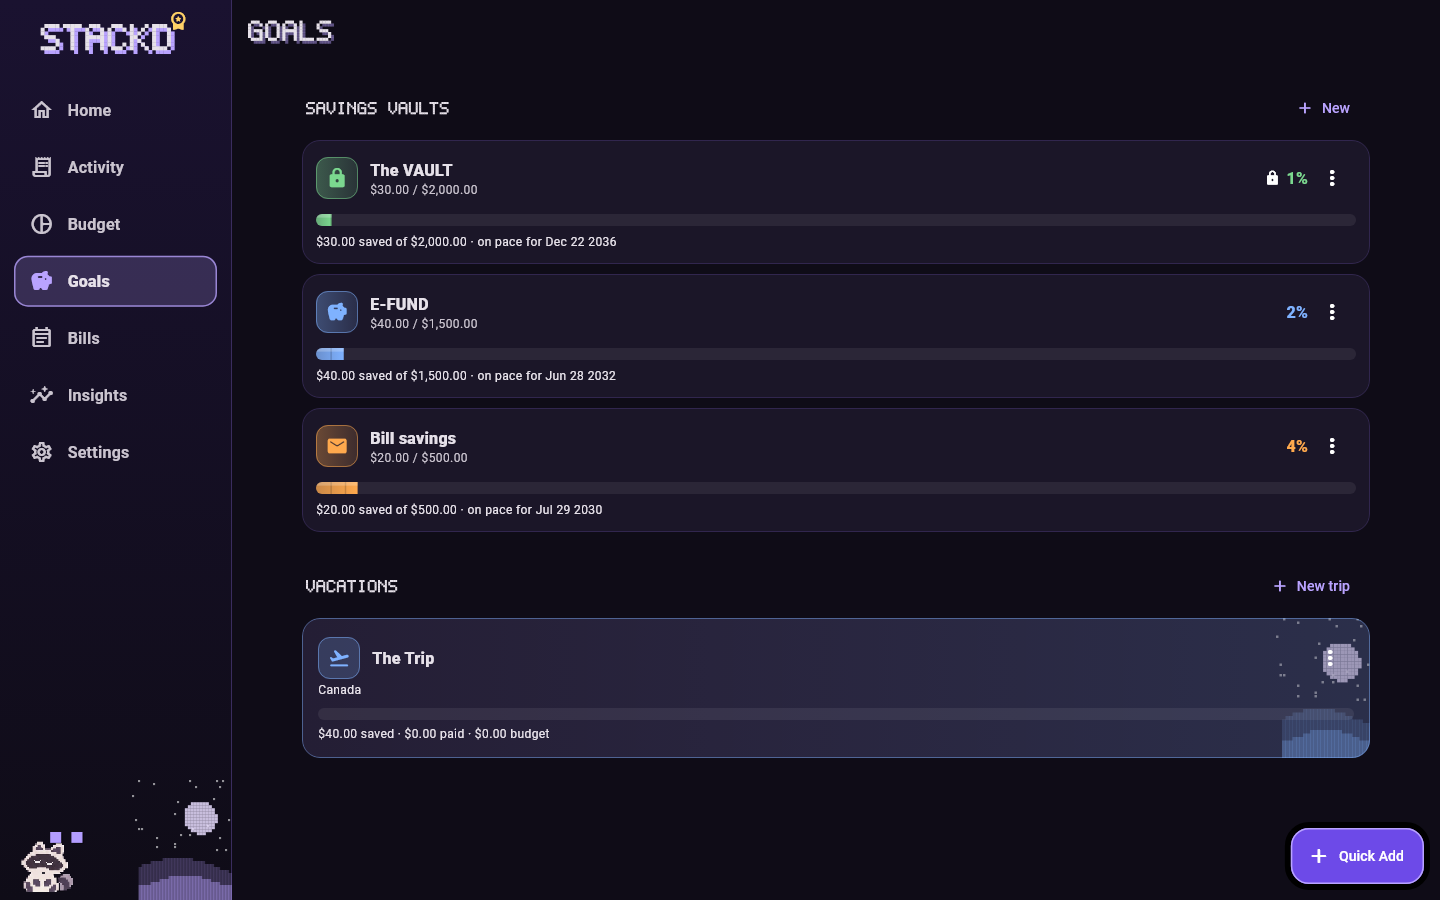
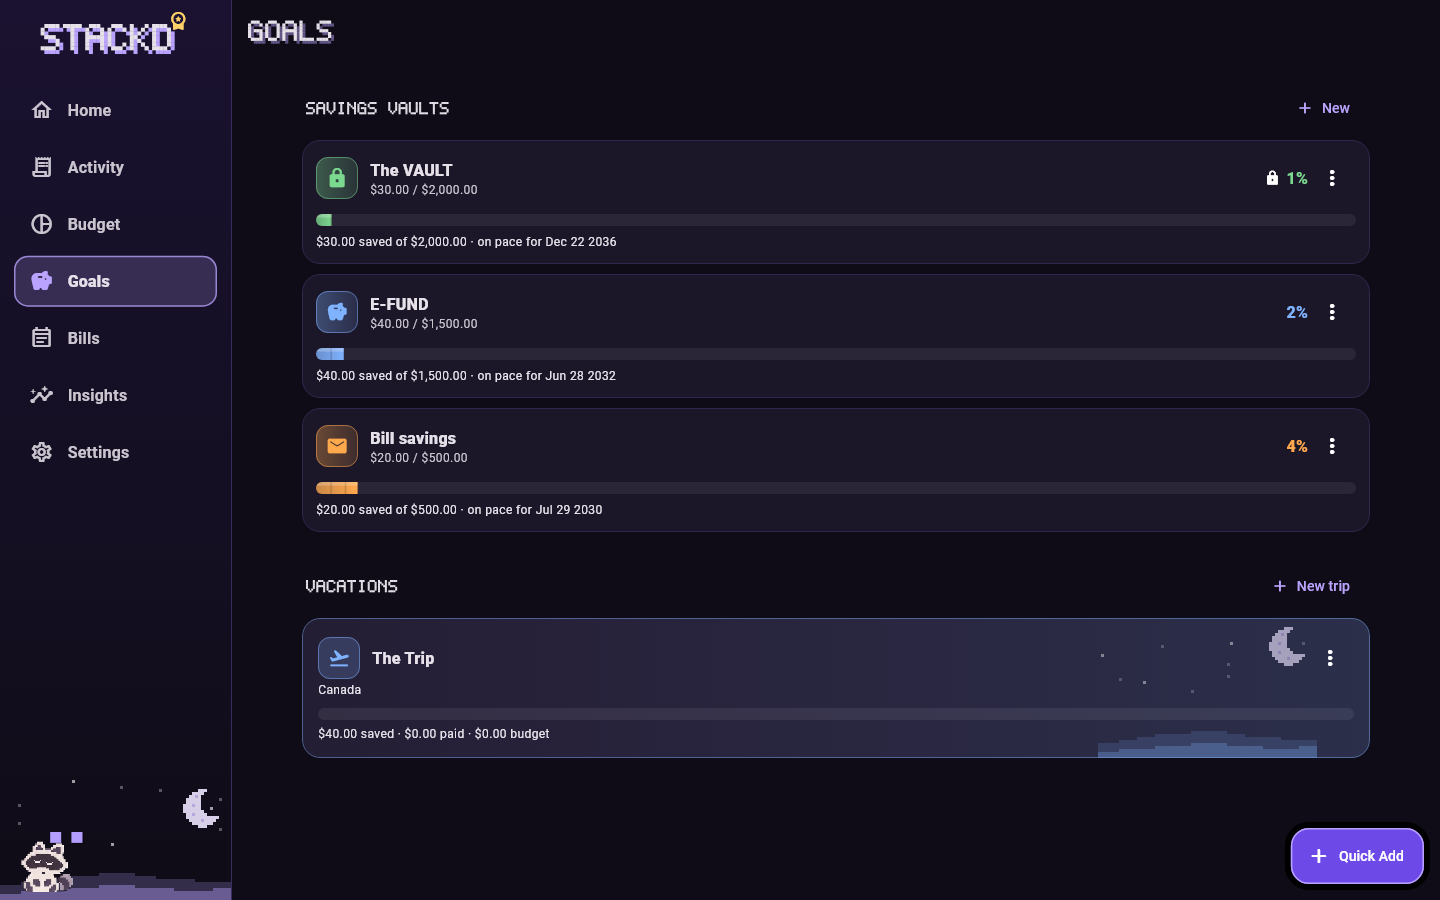
Night scene: separate phone and PC versions, fixed-size pixels, crescent moon sprite
- No longer scales with card height (was stretching on phones)
- Phone: small moon + low hills; PC: wider scene with pine trees
- Small spots (side menu, card corners) use the compact version; trip scene kept clear of the menu

Changed region(s): [[0.75, 0.6844, 0.9688, 0.84], [0.0, 0.8711, 0.1562, 1.0]]

diff --git a/lib/ui/pixel.dart b/lib/ui/pixel.dart
@@ -217,53 +217,120 @@ class PixelBorder extends ShapeBorder {
 }
 
 /// Pixel night scene (stars, moon, hills) used behind hero cards. Purely decorative.
+/// Two hand-made versions: a small one for phones and a wider one with trees for PC / tablet.
+/// Everything is drawn in fixed-size pixels anchored to the bottom-right corner, so it never stretches
+/// with the card's height.
 class NightScene extends StatelessWidget {
   final Color tint;
-  const NightScene({super.key, required this.tint});
+  /// null = pick by screen width (phone under 600 px wide).
+  final bool? phone;
+  const NightScene({super.key, required this.tint, this.phone});
   @override
-  Widget build(BuildContext context) => CustomPaint(painter: _NightPainter(tint), size: Size.infinite);
+  Widget build(BuildContext context) =>
+      CustomPaint(painter: _NightPainter(tint, phone ?? MediaQuery.sizeOf(context).width < 600), size: Size.infinite);
 }
+
+/// 13x13 crescent moon: '#' light, '+' crater, ' ' empty.
+const _moon = [
+  '     ###     ',
+  '   ####      ',
+  '  ##+#       ',
+  ' #####       ',
+  ' #####       ',
+  '###+##       ',
+  '######       ',
+  '#######      ',
+  ' ##+####     ',
+  ' ########### ',
+  '  ####+####  ',
+  '   #######   ',
+  '     ###     ',
+];
+
+/// 5x9 pine tree.
+const _tree = [
+  '  #  ',
+  '  #  ',
+  ' ### ',
+  ' ### ',
+  '#####',
+  ' ### ',
+  '#####',
+  '#####',
+  '  #  ',
+];
 
 class _NightPainter extends CustomPainter {
   final Color tint;
-  _NightPainter(this.tint);
+  final bool phone;
+  _NightPainter(this.tint, this.phone);
+
   @override
   void paint(Canvas canvas, Size s) {
-    final px = max(3.0, s.height / 40);
-    final rng = Random(4);
-    final star = Paint()..color = Colors.white.withValues(alpha: 0.55);
-    for (var i = 0; i < 26; i++) {
-      final x = s.width * (0.55 + rng.nextDouble() * 0.45);
-      final y = s.height * rng.nextDouble() * 0.6;
-      canvas.drawRect(Rect.fromLTWH((x / px).floorToDouble() * px, (y / px).floorToDouble() * px, px * 0.7, px * 0.7), star);
+    final px = phone ? 3.0 : 4.0;
+    // small boxes (side menu, card corners) use their whole width
+    final areaW = s.width < 260 ? s.width : min(s.width * (phone ? 0.5 : 0.42), phone ? 170.0 : 420.0);
+    final left = s.width - areaW;
+    void dot(double x, double y, Paint p, [double w = 1, double h = 1]) =>
+        canvas.drawRect(Rect.fromLTWH(left + x * px, y * px, w * px, h * px), p);
+
+    // stars: fixed spots in the scene's area (grid units)
+    final cols = (areaW / px).floor();
+    final rows = (s.height / px).floor();
+    final star = Paint()..color = Colors.white.withValues(alpha: 0.6);
+    final dim = Paint()..color = Colors.white.withValues(alpha: 0.3);
+    final rng = Random(7);
+    for (var i = 0; i < (phone ? 9 : 22); i++) {
+      final x = rng.nextInt(max(1, cols - 2)).toDouble();
+      final y = rng.nextInt(max(1, (rows * 0.55).floor())).toDouble();
+      dot(x, y, i % 3 == 0 ? star : dim);
     }
-    // moon: pixelated disc
-    final mc = Offset(s.width * 0.86, s.height * 0.3);
-    final mr = min(s.height * 0.14, 36.0);
-    final moon = Paint()..color = const Color(0xFFE9DDFF).withValues(alpha: 0.85);
-    for (var y = -mr; y <= mr; y += px) {
-      for (var x = -mr; x <= mr; x += px) {
-        if (x * x + y * y <= mr * mr) canvas.drawRect(Rect.fromLTWH(mc.dx + x, mc.dy + y, px, px), moon);
-      }
-    }
-    // hills: two stepped layers
-    void hills(double base, double amp, double freq, double phase, Color c) {
-      final p = Paint()..color = c;
-      for (var x = s.width * 0.6; x < s.width; x += px) {
-        final h = base + amp * sin(x / s.width * freq + phase);
-        final top = (s.height - h) / px * px;
-        canvas.drawRect(Rect.fromLTWH(x, (top / px).floorToDouble() * px, px + 0.5, s.height), p);
+
+    // moon sprite, top-right
+    final light = Paint()..color = const Color(0xFFEDE3FF).withValues(alpha: 0.9);
+    final shade = Paint()..color = const Color(0xFFC9B8F0).withValues(alpha: 0.9);
+    final mx = cols - 13 - (phone ? 3 : 5);
+    final my = phone ? 3 : 4;
+    for (var r = 0; r < _moon.length; r++) {
+      for (var c = 0; c < _moon[r].length; c++) {
+        final ch = _moon[r][c];
+        if (ch != ' ') dot((mx + c).toDouble(), (my + r).toDouble(), ch == '+' ? shade : light);
       }
     }
 
-    hills(s.height * 0.26, s.height * 0.08, 9, 1, tint.withValues(alpha: 0.22));
-    hills(s.height * 0.15, s.height * 0.05, 14, 3, tint.withValues(alpha: 0.38));
+    // hills: hand-shaped heights (grid units from the bottom), back layer then front layer
+    void hills(List<int> shape, Color c) {
+      final p = Paint()..color = c;
+      final step = cols / shape.length;
+      for (var x = 0; x < cols; x++) {
+        final h = shape[min(shape.length - 1, (x / step).floor())];
+        canvas.drawRect(Rect.fromLTWH(left + x * px, s.height - h * px, px, h * px), p);
+      }
+    }
+
+    if (phone) {
+      hills(const [5, 6, 7, 8, 8, 9, 9, 8, 7, 7, 6, 6], tint.withValues(alpha: 0.22));
+      hills(const [2, 3, 3, 4, 4, 5, 5, 4, 4, 3, 3, 4], tint.withValues(alpha: 0.4));
+    } else {
+      hills(const [6, 8, 10, 12, 13, 14, 13, 12, 10, 9, 10, 12, 14, 15, 15, 14, 12, 10], tint.withValues(alpha: 0.2));
+      hills(const [3, 4, 5, 6, 6, 7, 7, 6, 5, 5, 6, 7, 8, 8, 7, 6, 5, 5], tint.withValues(alpha: 0.38));
+      // a few pine trees on the front hills
+      final tp = Paint()..color = tint.withValues(alpha: 0.55);
+      for (final fx in const [0.12, 0.2, 0.62, 0.7, 0.86]) {
+        final tx = (cols * fx).floorToDouble();
+        final base = rows - 6;
+        for (var r = 0; r < _tree.length; r++) {
+          for (var c = 0; c < 5; c++) {
+            if (_tree[r][c] == '#') dot(tx + c, (base - _tree.length + r).toDouble(), tp);
+          }
+        }
+      }
+    }
   }
 
   @override
-  bool shouldRepaint(_NightPainter o) => o.tint != tint;
+  bool shouldRepaint(_NightPainter o) => o.tint != tint || o.phone != phone;
 }
-
 /// The STACKD logo: pixel letters with a little crown.
 class StackdLogo extends StatelessWidget {
   final double size;

diff --git a/lib/ui/screens/goals.dart b/lib/ui/screens/goals.dart
@@ -164,7 +164,7 @@ class GoalCard extends StatelessWidget {
                 bottom: 0,
                 width: 160,
                 child: ExcludeSemantics(
-                  child: Opacity(opacity: 0.55, child: NightScene(tint: color)),
+                  child: Opacity(opacity: 0.55, child: NightScene(tint: color, phone: true)),
                 ),
               ),
             Padding(
@@ -663,12 +663,12 @@ class TripCard extends StatelessWidget {
               ),
             ),
             const Positioned(
-              right: 0,
+              right: 52, // keep clear of the ⋮ menu
               top: 0,
               bottom: 0,
               width: 220,
               child: ExcludeSemantics(
-                child: Opacity(opacity: 0.7, child: NightScene(tint: Accents.vacationBlue)),
+                child: Opacity(opacity: 0.7, child: NightScene(tint: Accents.vacationBlue, phone: true)),
               ),
             ),
             Padding(

diff --git a/lib/ui/app.dart b/lib/ui/app.dart
@@ -175,7 +175,7 @@ class SideNav extends StatelessWidget {
           SizedBox(
             height: 120,
             child: Stack(fit: StackFit.expand, children: [
-              NightScene(tint: cs.primary),
+              NightScene(tint: cs.primary, phone: true),
               const Positioned(left: 12, bottom: 6, child: CloverSprite(mood: CloverMood.sleepy, size: 52)),
             ]),
           ),
